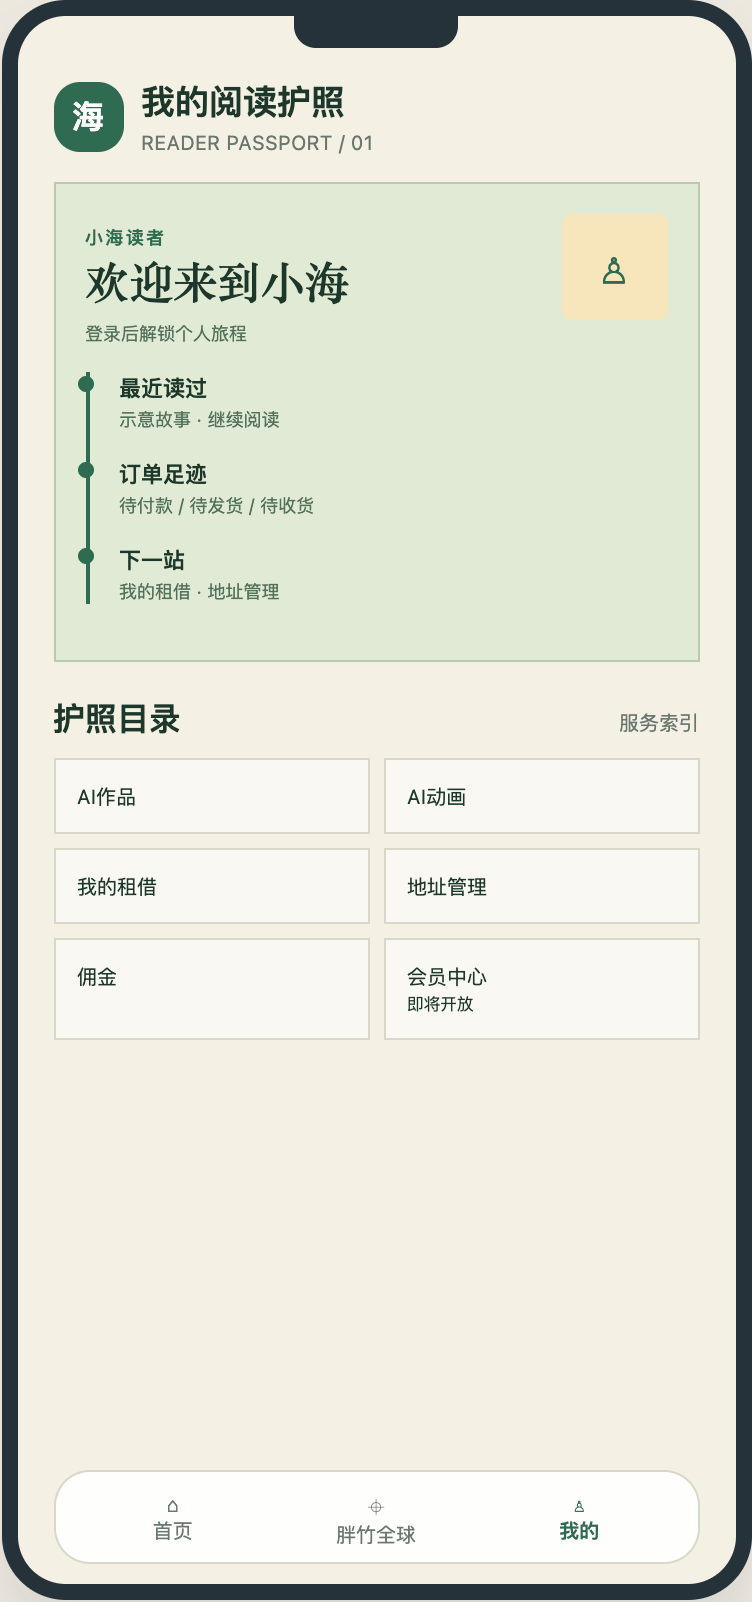
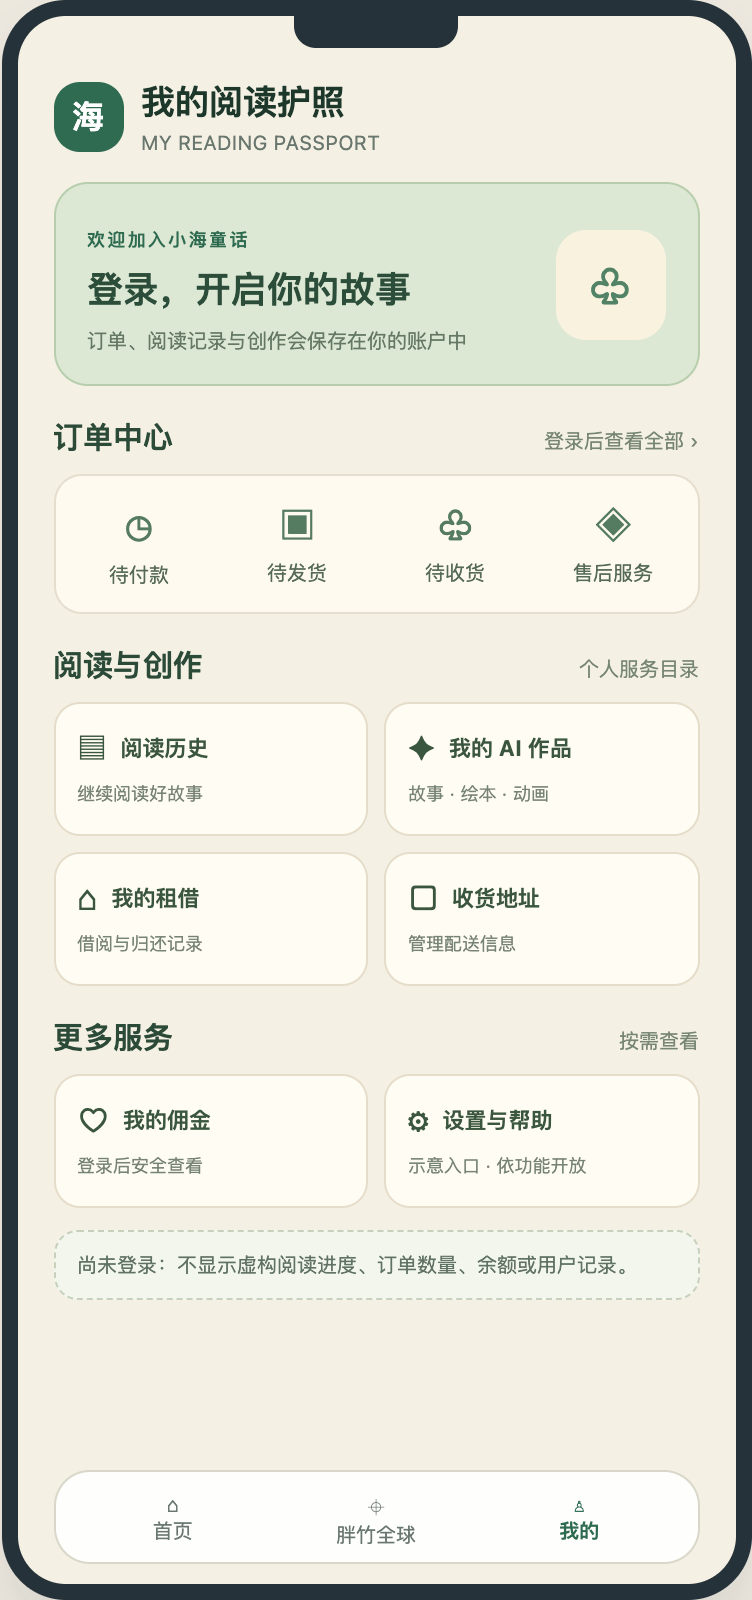
docs: refresh final stage A browser evidence

diff --git a/docs/prototypes/evidence/issue-128-bab/README.md b/docs/prototypes/evidence/issue-128-bab/README.md
@@ -1,12 +1,10 @@
 # Issue #128 Stage A — B/A/B browser evidence
 
-> **HISTORICAL ONLY / 旧版截图，不能用于最新设计验收：** The six screenshots below were rendered from `a7aa819` and show the earlier low-fidelity B/A/B wireframe. Fred requested a higher-fidelity revision afterward. The redesigned illustrated Home / detailed mock map / compact Me prototype was changed in `ee7cf5b`; fresh 375px / 430px browser captures and interactive state checks are **NOT TESTED** on that revision. Do not present these images as new visual acceptance evidence. Replace/update them only after re-rendering the exact latest PR SHA.
-
-These six PNGs were rendered from commit `a7aa819` using desktop Chrome headless. They show the final selected combination:
+These screenshots were rendered from source commit `297135d` using desktop Chrome headless. They show the redesigned final selected combination:
 
 - Home: direction B / magazine cover + index
 - Pangzhu Global: direction A / search + map + nearby store
-- Me: direction B / reading passport + journey timeline
+- Me: direction B / compact login + orders + reading history + AI works + rentals
 
 Each frame is the prototype's exact 375px or 430px viewport. The content is design-only illustrative data and is not a real CMS, BOS, store, account, or API response. These are browser-rendered prototype screenshots, not WeChat DevTools or real-device acceptance evidence.
 
@@ -16,4 +14,27 @@ Each frame is the prototype's exact 375px or 430px viewport. The content is desi
 | Pangzhu Global | [global-narrow](./issue-128-bab-global-narrow.png) | [global-wide](./issue-128-bab-global-wide.png) |
 | Me | [me-narrow](./issue-128-bab-me-narrow.png) | [me-wide](./issue-128-bab-me-wide.png) |
 
-Automated checks for all six frames reported no horizontal or vertical overflow inside the phone frame. Visual review confirmed brand consistency, bottom navigation, Chinese text hierarchy, cover/map treatment, and visible state copy.
+## Six-frame result
+
+All six frames are PASS. Automated checks reported no horizontal or vertical overflow inside the phone frame. Visual review confirmed the fox reading illustration and four Home entries, road/name/marker/map/store treatment, compact Me login area, orders, reading history, AI works, rentals, Chinese long-title wrapping, bottom navigation, and consistent paper/leaf/ink styling.
+
+| Check | Result |
+|---|---|
+| Source commit | `297135d` |
+| Browser | Desktop Chrome headless via Playwright |
+| Viewports | 375px and 430px exact frame widths |
+| Horizontal/vertical overflow | PASS for all six |
+| Runtime API / CMS / BOS | NOT TESTED; static prototype only |
+| WeChat DevTools / real device | NOT TESTED |
+
+## State matrix
+
+The prototype's scenario control was exercised for all three pages. Each state panel was visible inside the 375px frame and contained the expected non-production copy; the state test screenshots are included below.
+
+| Page | Loading | Empty | Error + retry |
+|---|---|---|---|
+| Home | [loading](./issue-128-bab-state-home-loading-narrow.png) PASS | [empty](./issue-128-bab-state-home-empty-narrow.png) PASS | [error](./issue-128-bab-state-home-error-narrow.png) PASS |
+| Pangzhu Global | [loading](./issue-128-bab-state-global-loading-narrow.png) PASS | [empty](./issue-128-bab-state-global-empty-narrow.png) PASS | [error](./issue-128-bab-state-global-error-narrow.png) PASS |
+| Me | [loading](./issue-128-bab-state-me-loading-narrow.png) PASS | [empty](./issue-128-bab-state-me-empty-narrow.png) PASS | [error](./issue-128-bab-state-me-error-narrow.png) PASS |
+
+All state panels are design-only demonstrations. They do not call a server or prove Mini Program runtime behavior.

diff --git a/docs/design/issue-128-stage-a.md b/docs/design/issue-128-stage-a.md
@@ -165,8 +165,8 @@ A：身份卡 → 阅读进度 → 横向订单轨道 → 服务；B：阅读护
 
 ### 重新验收要求（必须在新提交 SHA 上执行）
 
-此前基于 `a7aa819` 生成的六张截图只对应旧线框方案，**不再代表这版高保真设计的验收证据**。当前修改后的 375 / 430 屏幕截图、滚动/裁切检查、页面长标题、常态/加载/空/错误切换均尚未在真实浏览器复验，统一标记为 **NOT TESTED**。在 Mac 设计 worktree 同步到本次更新的最新 SHA 后，重新运行 Chrome headless，提交至少六张新的浏览器截图及一份状态矩阵；不得使用旧图或虚构 PASS。由 Fred 复审，未经明确批准不进入 Stage B。
+此前基于 `a7aa819` 生成的六张截图只对应旧线框方案，已被本次证据替换。基于源提交 `297135d`，已重新生成 B/A/B 的 375 / 430 六张完整浏览器截图，并检查滚动/裁切、中文长标题、底部导航及三页一致性；另对三个页面执行常态、加载、空、错误/重试状态切换，状态面板均在 375px 画面内可见。证据与状态矩阵见 [B/A/B 浏览器证据](../prototypes/evidence/issue-128-bab/README.md)。这些仍是静态浏览器证据，不是微信 DevTools/真机验收；未经 Fred 明确批准不进入 Stage B。
 
 ## 8. 证据边界
 
-本阶段的 AFTER 是静态方案稿，不是微信 DevTools 实际截图；BEFORE 面板是基于当前 WXML/WXSS 结构的示意对照，不宣称真实设备渲染。旧版 B/A/B 布局此前完成过桌面 Chrome headless 渲染并提供 [历史六张截图](../prototypes/evidence/issue-128-bab/README.md)，但这些截图不涵盖 Fred 要求的最新高保真修改。**本次新的浏览器图像、布局及状态验证为 NOT TESTED**，必须在更新后的 SHA 重新生成并作为新版证据。实际微信 DevTools/真机验收仍保留为 Stage B 之后的 NOT TESTED 项。
+本阶段的 AFTER 是静态方案稿，不是微信 DevTools 实际截图；BEFORE 面板是基于当前 WXML/WXSS 结构的示意对照，不宣称真实设备渲染。本次基于 `297135d` 的六张浏览器截图、状态切换与布局检查已完成，结果见 [B/A/B 浏览器证据](../prototypes/evidence/issue-128-bab/README.md)。实际微信 DevTools/真机验收仍保留为 Stage B 之后的 NOT TESTED 项。
